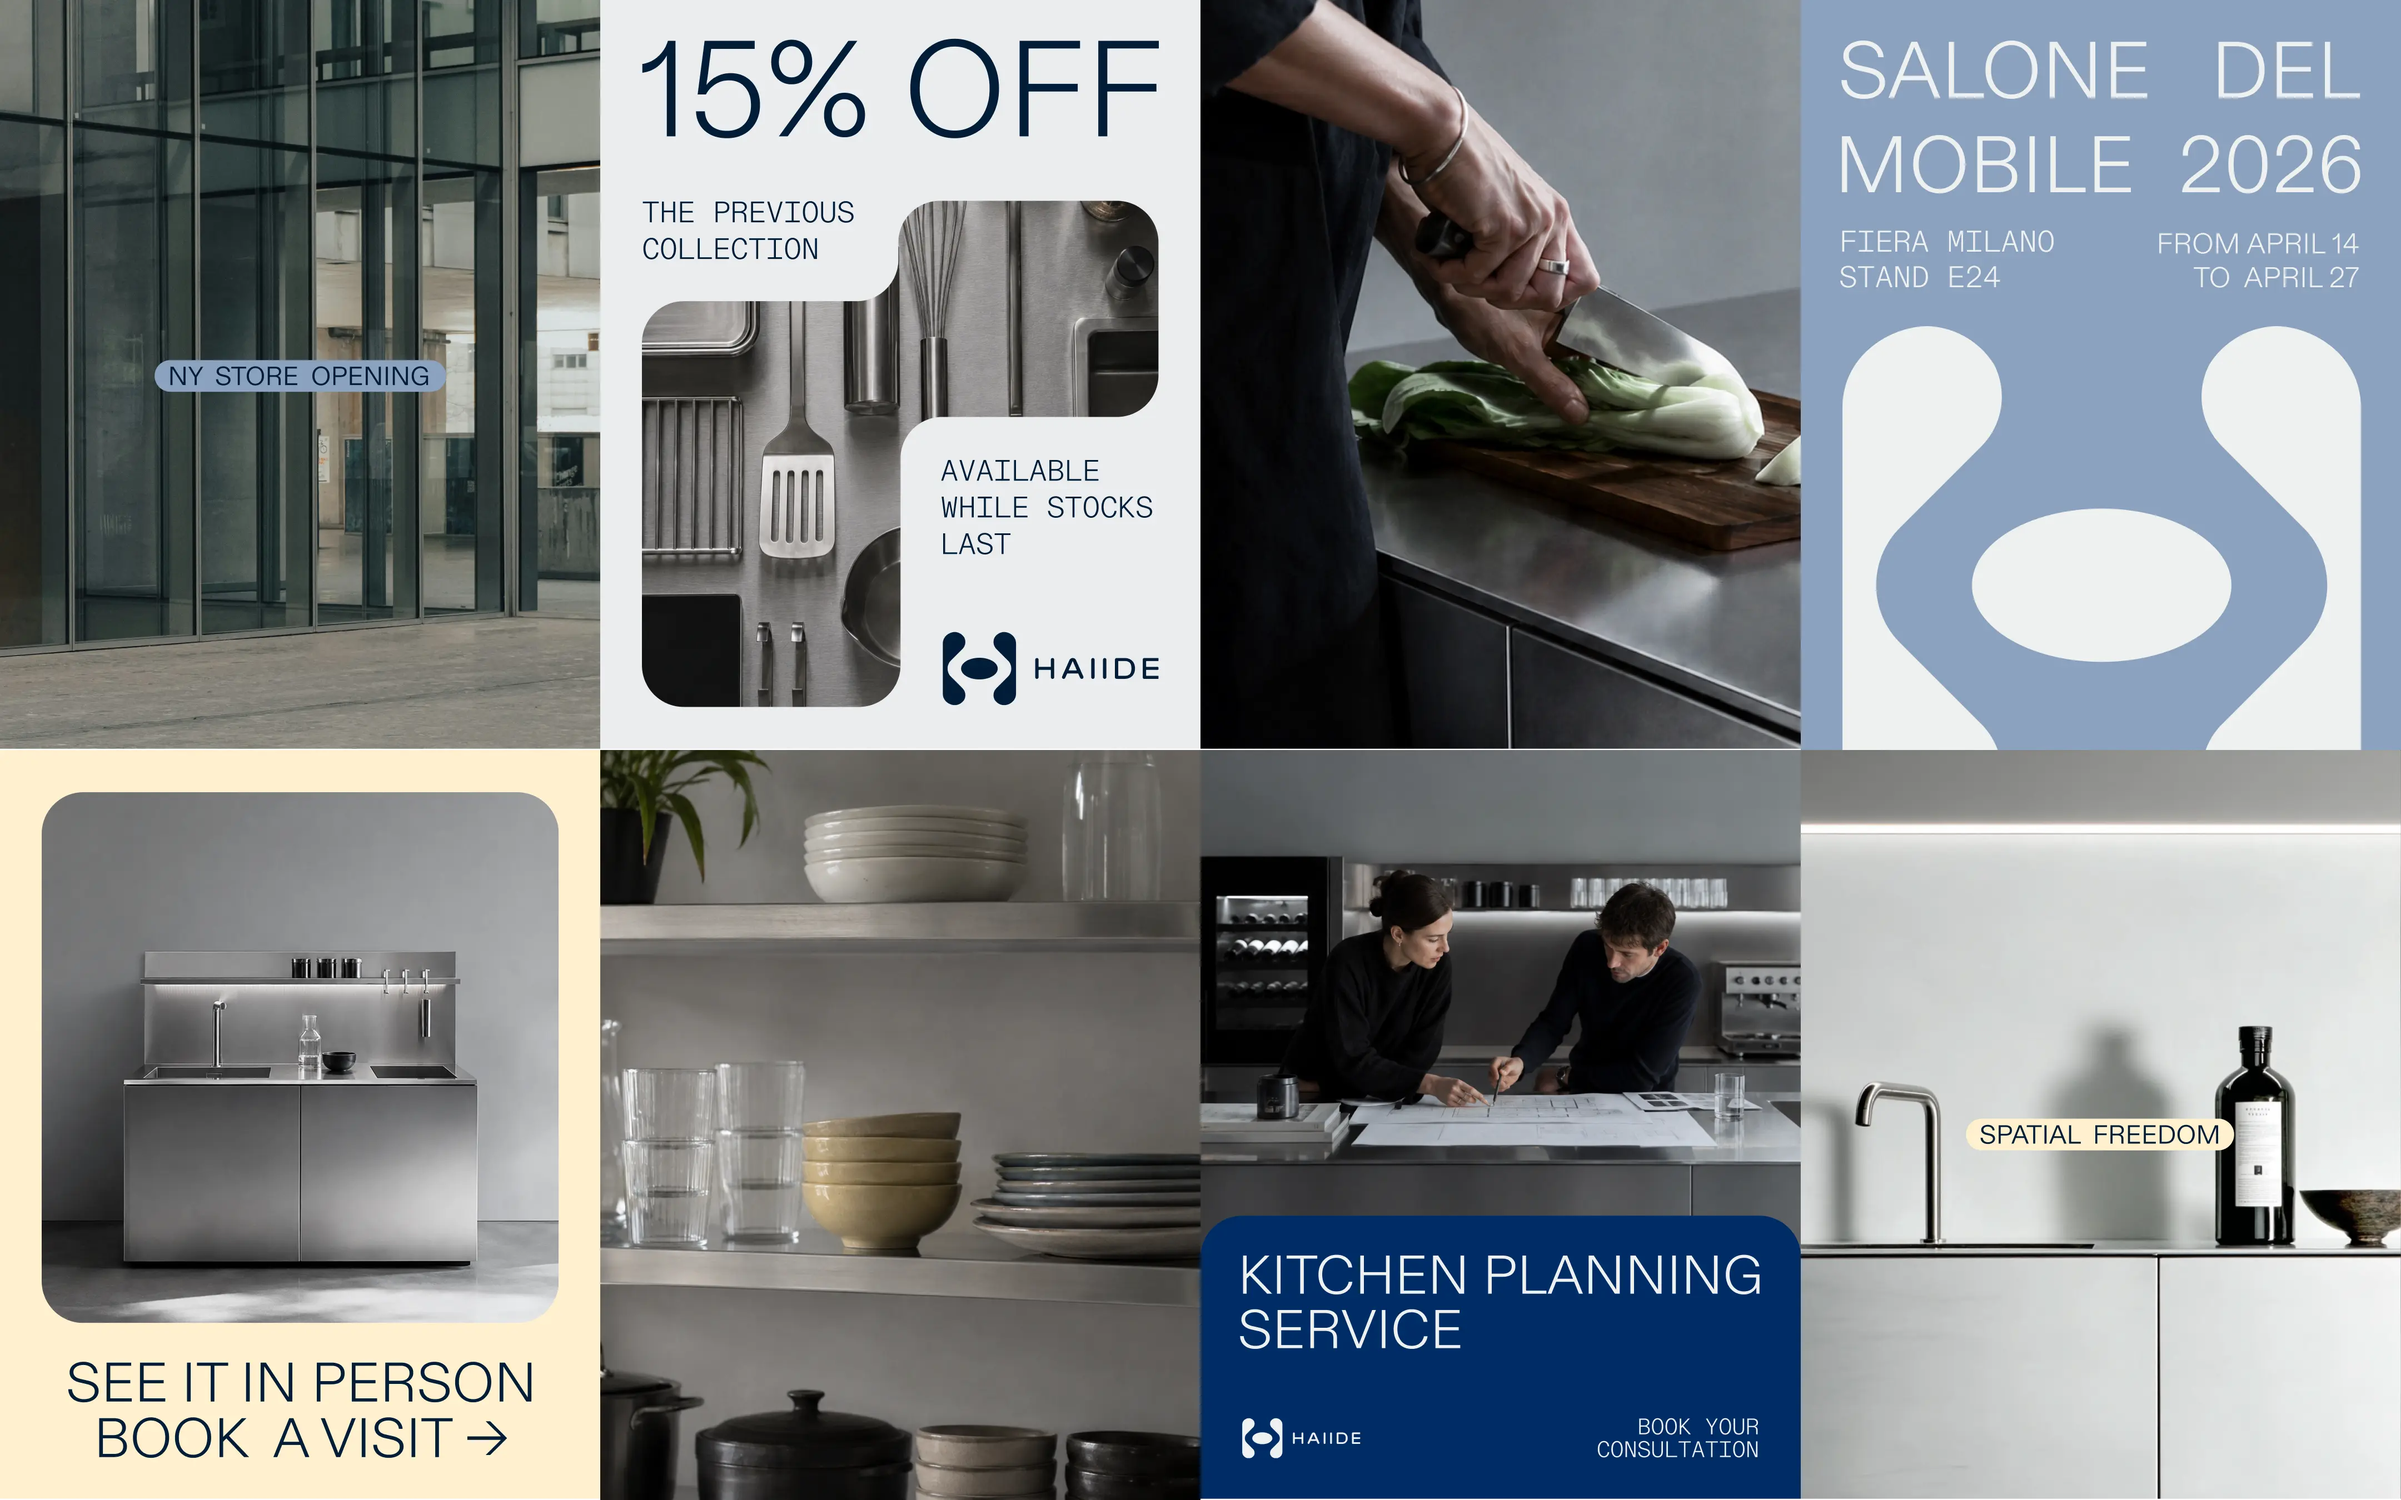
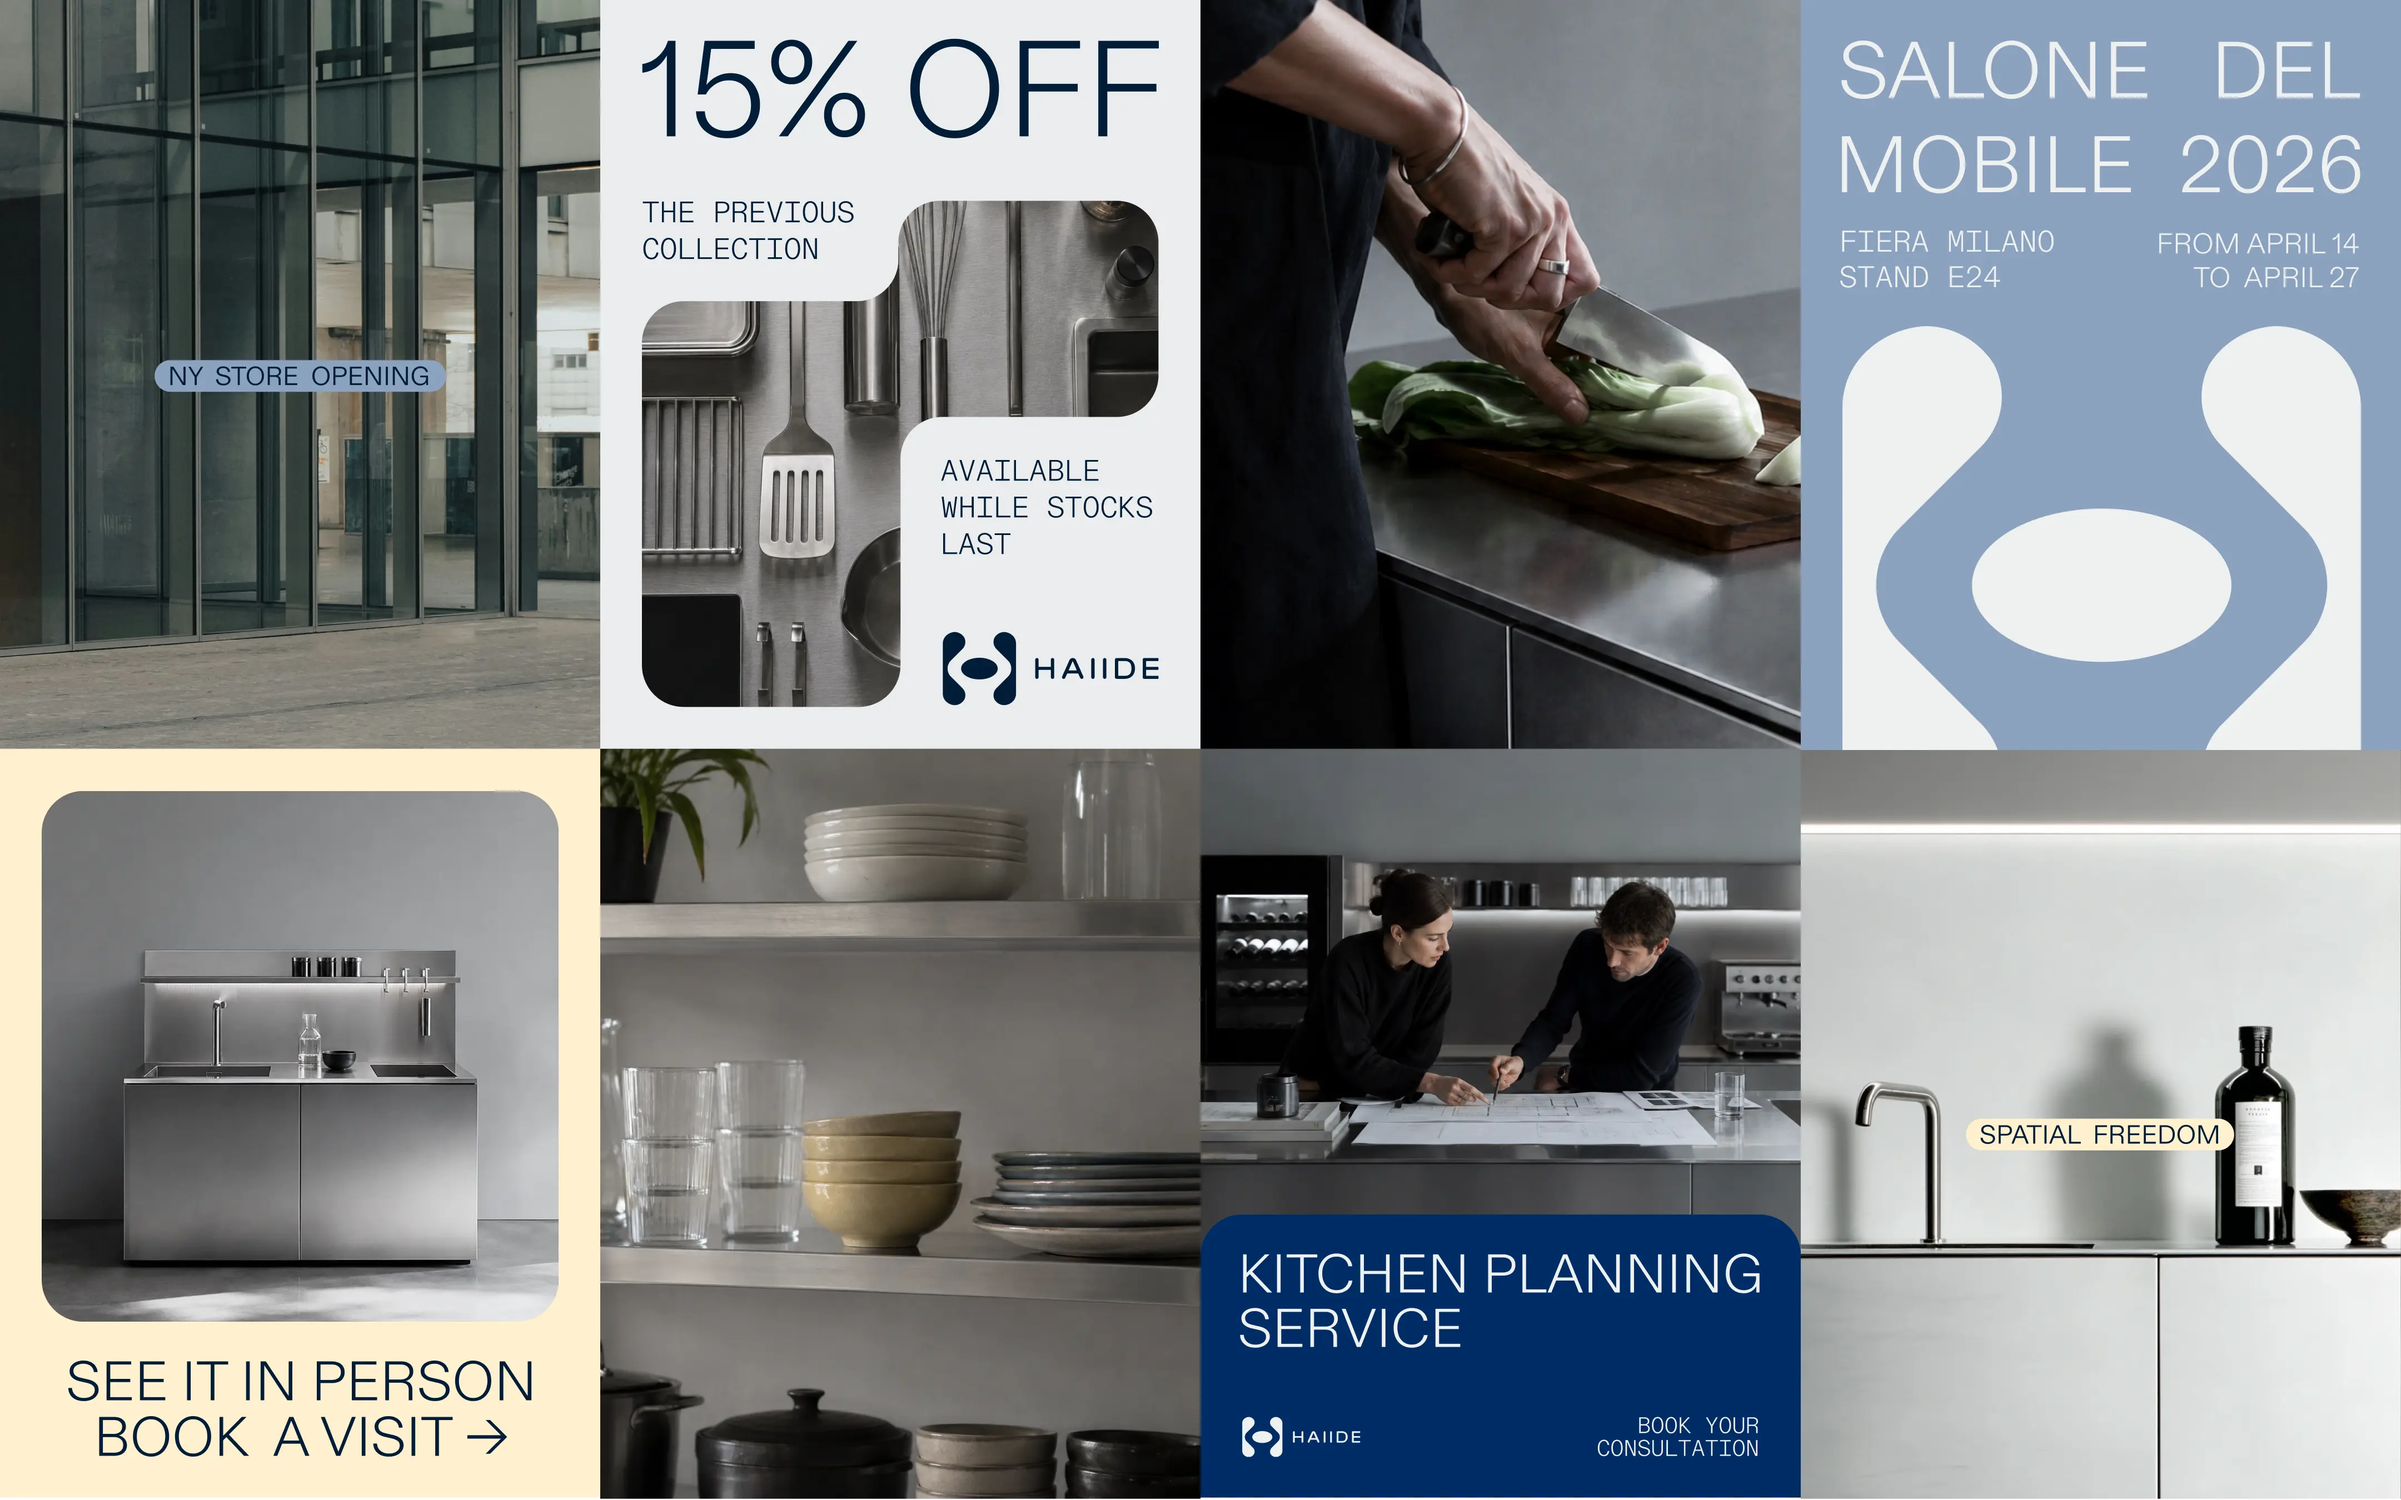
Replace the last HAIIDE still with haiide 7.webp.

diff --git a/index.html b/index.html
@@ -199,7 +199,7 @@
                 <img width="1080" height="1440" src="assets/media/haiide%207.webp" alt="HAIIDE opening invitation" loading="eager" />
               </figure>
               <figure class="media full">
-                <img width="4320" height="2700" src="assets/media/haiide%209.webp?v=2508267e2" alt="HAIIDE social media tiles" loading="eager" />
+                <img width="4320" height="2700" src="assets/media/haiide%209.webp?v=250826h7" alt="HAIIDE social media tiles" loading="eager" />
               </figure>
               <figure class="media full" hidden>
                 <video webkit-playsinline width="1920" height="1080"
